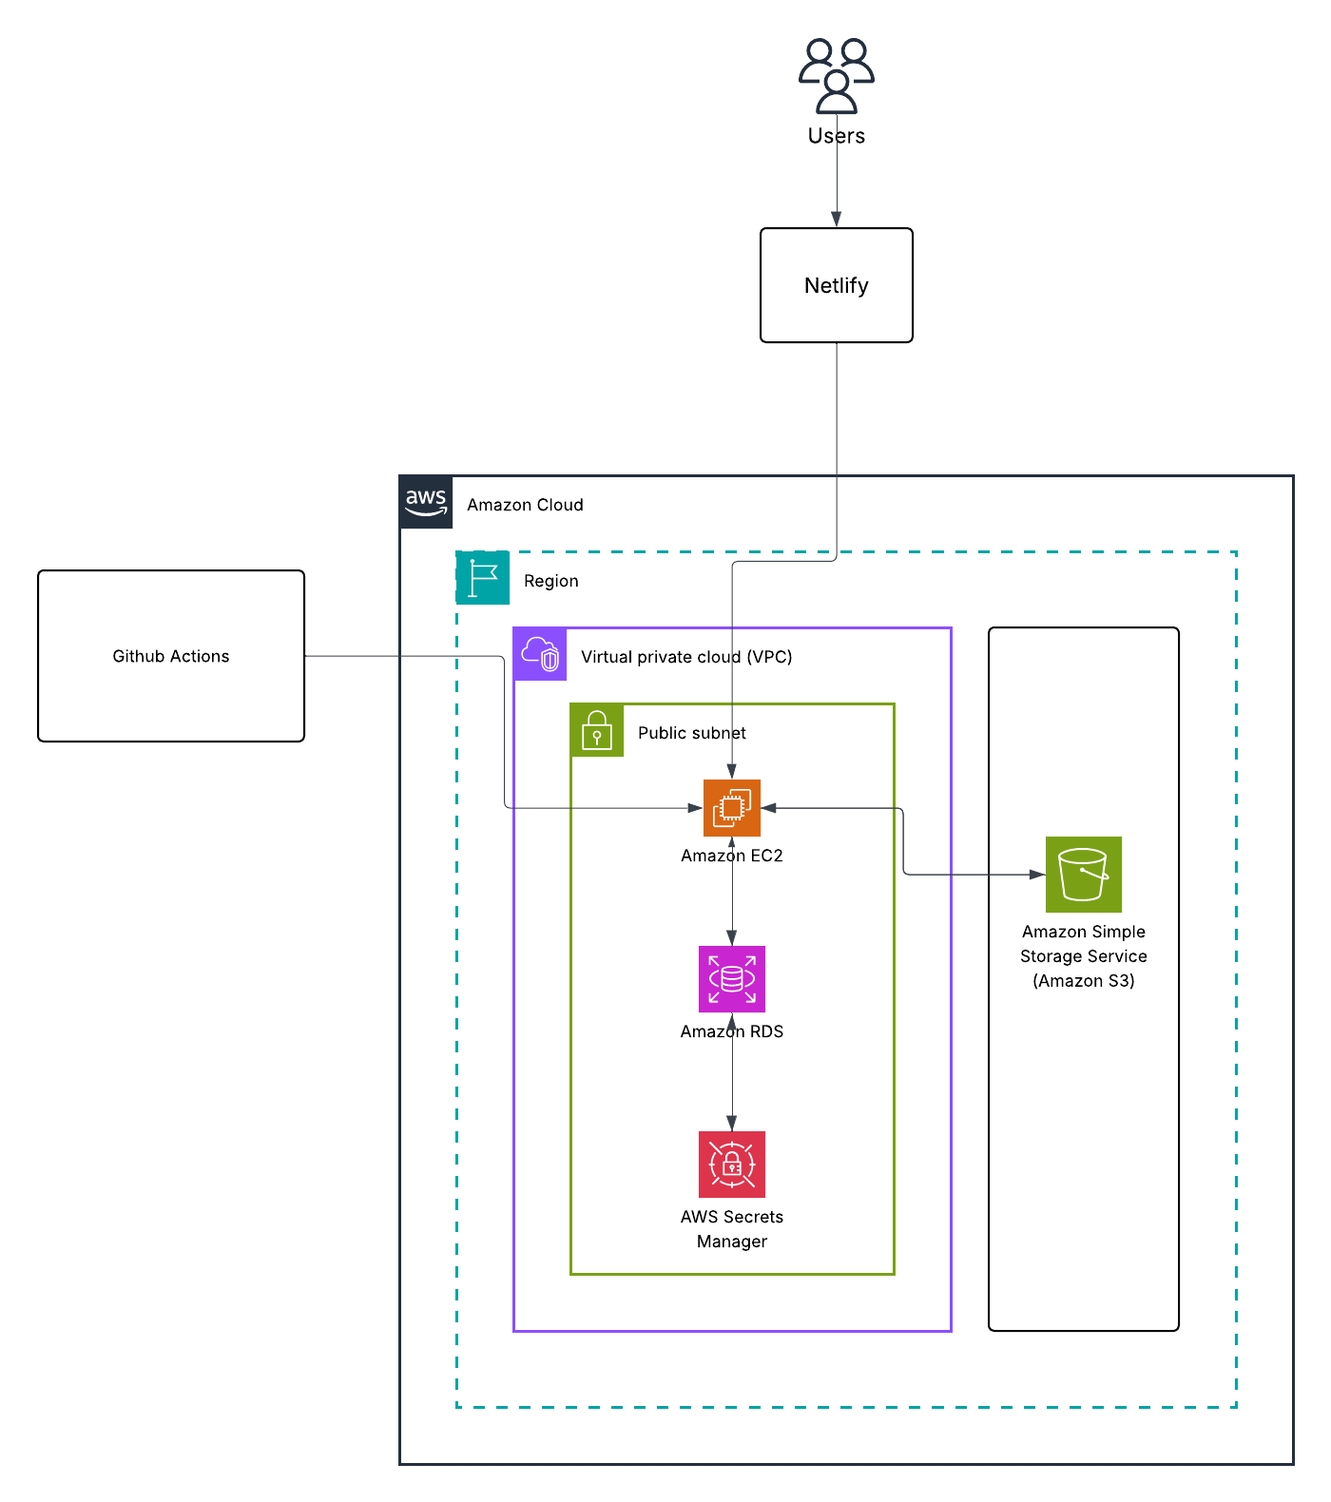
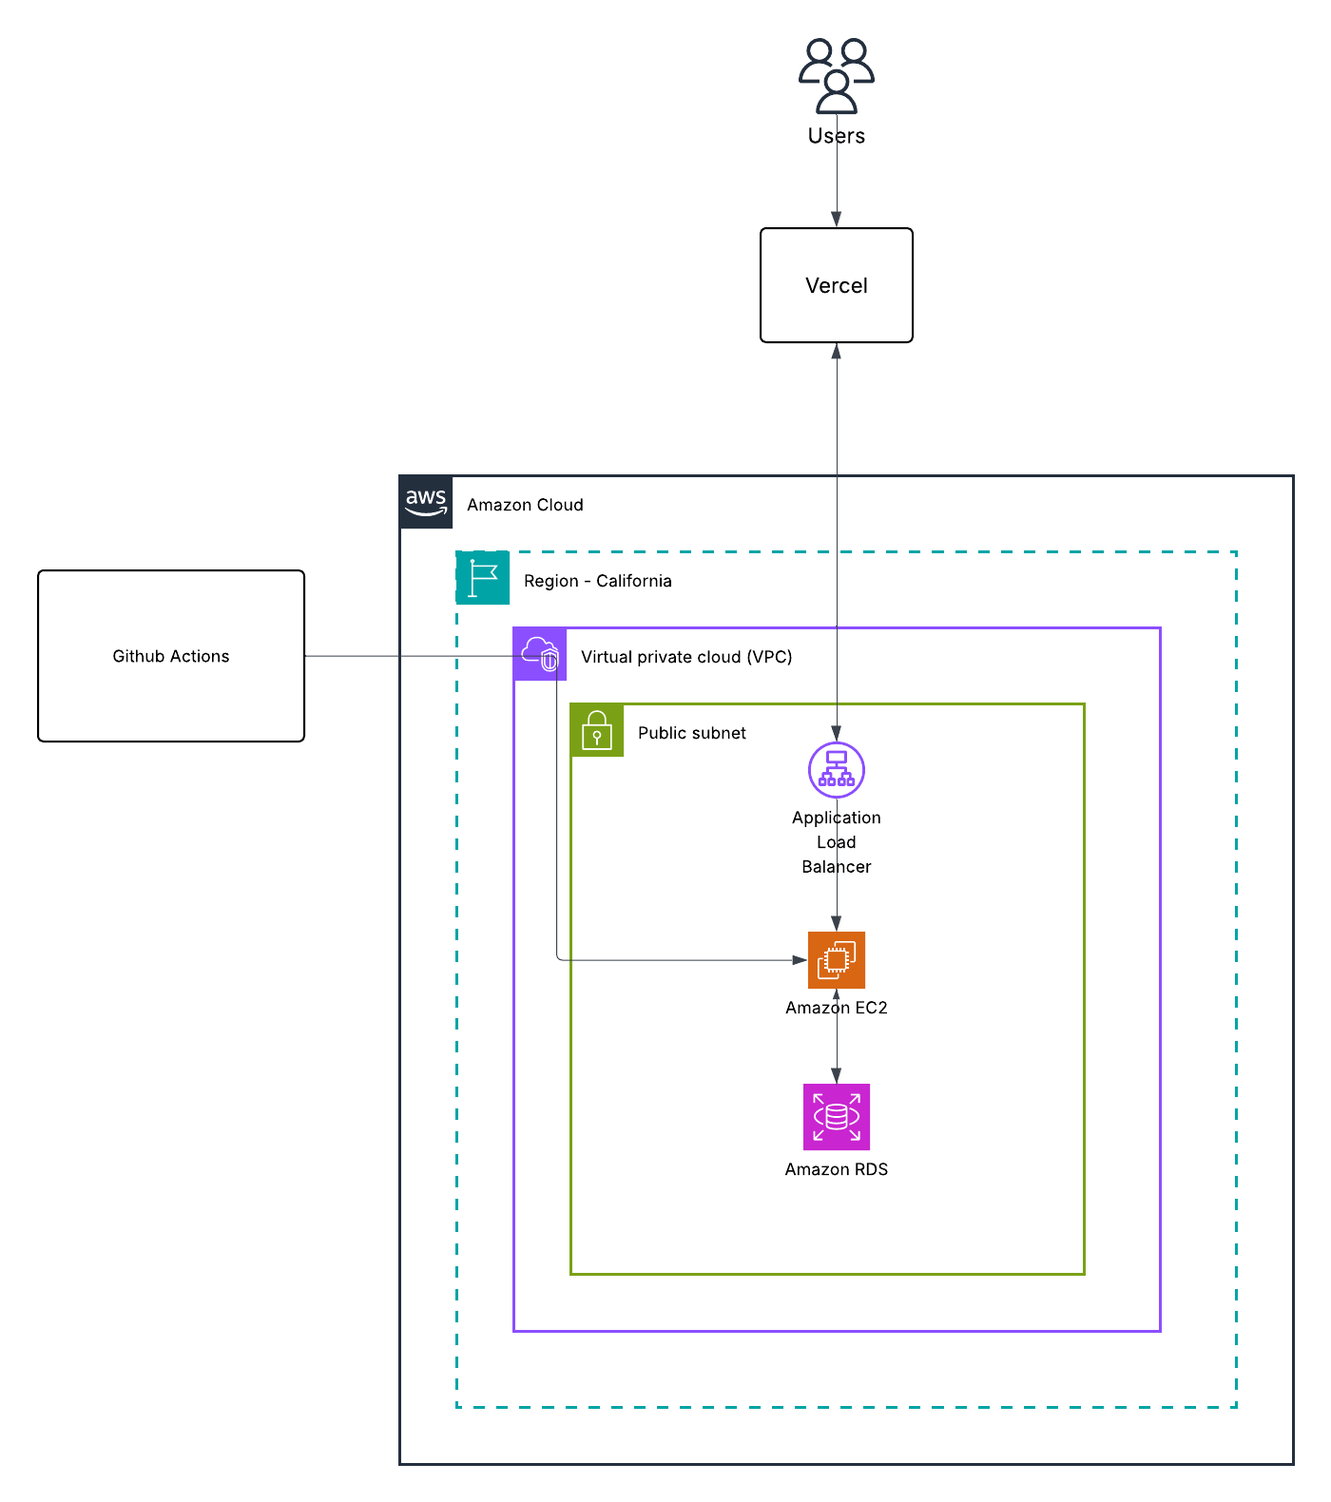
chore: update document

diff --git a/docs/functional_documentation.md b/docs/functional_documentation.md
@@ -14,8 +14,7 @@ The **Job Platform** aims to provide a **centralized digital solution** that sim
 
 - Enable **Job Seekers** to discover and apply for relevant jobs.
 - Allow **Employers** to manage job postings and applications easily.
-- Implement **role-based access control** with **JWT authentication**.
-- Integrate **AWS S3** for file uploads and storage.
+- Implement **role-based access control** with **authentication**.
 - Build a **secure and scalable** web-based job portal.
 - Ensure **user-friendly UI** using React and Tailwind CSS.
 
@@ -26,7 +25,6 @@ The **Job Platform** aims to provide a **centralized digital solution** that sim
 - Two major user roles — **Job Seeker** and **Employer**.
 - CRUD operations for users and job postings.
 - Secure authentication and data validation.
-- Integration with **AWS S3** for storing files.
 - Responsive PWA-enabled frontend.
 
 ---
@@ -36,11 +34,11 @@ The **Job Platform** aims to provide a **centralized digital solution** that sim
 | Feature | Description |
 |----------|-------------|
 | **Authentication** | Role-based registration and login using JWT. |
-| **Job Search & Filter** | Search by job skills. |
+| **Job Search** | Search by job by title and companies. |
 | **Job Applications** | Apply for jobs with resume uploads. |
 | **Profile Management** | Update user or employer details. |
-| **Job Management** | Employers can post, edit, or delete jobs. |
-| **File Uploads** | Resumes and other files are stored in S3. |
+| **Job Management** | Employers can post or delete jobs. |
+| **File Uploads** | Resumes can be uploaded of seekers. |
 | **Responsive UI** | Built with Tailwind CSS and PWA support. |
 | **Secure APIs** | Protected routes with role-based middleware. |
 
@@ -69,7 +67,6 @@ The **Job Platform** aims to provide a **centralized digital solution** that sim
 | **Backend** | Node.js, Express.js | Handling server-side logic, RESTful APIs, authentication, and role-based authorization. |
 | **Database** | PostgreSQL | SQL database for storing user data, job postings, and application details efficiently. |
 | **Authentication** | JWT (JSON Web Token), bcrypt | Secure login system with encrypted passwords and token-based access management. |
-| **Cloud Storage** | AWS S3 | Storing user resumes, profile images, and company logos safely and scalably. |
 | **Testing** | Jest, Postman | Unit and API testing to ensure reliability and prevent regressions. |
 | **Deployment & CI/CD** | GitHub Actions, AWS EC2 | Automating build, test, and deploy pipelines to ensure continuous integration and delivery. |
 | **Documentation** | MkDocs Material | Generating structured, visually consistent, and easy-to-navigate documentation. |
@@ -79,10 +76,9 @@ The **Job Platform** aims to provide a **centralized digital solution** that sim
 ## Expected Outcomes
 
 - A **fully functional** and **role-based** job portal system that demonstrates secure authentication, data management, and job application workflows.
-- Proper **integration with cloud storage** (AWS S3) for file uploads such as resumes and company logos.
 - Clean and **responsive frontend** designed using Tailwind CSS and React.
 - Reliable **backend APIs** for seamless communication between the client and server.
-- Scalable architecture deployable on **AWS, Render, or Vercel**.
+- Scalable architecture deployable on **AWS and Vercel**.
 - Comprehensive documentation that fulfills academic and professional evaluation criteria.
 
 ---
@@ -93,7 +89,7 @@ The **Job Platform** aims to provide a **centralized digital solution** that sim
 |------------|-------------|
 | **Security** | Implementation of JWT-based authentication, bcrypt password hashing, role-based route protection, and use of `.env` for sensitive credentials. |
 | **Performance** | Optimized SQL queries for job listings, and lazy loading in React components for better performance. |
-| **Scalability** | Modular Express structure and cloud-based file storage (S3). |
+| **Scalability** | Modular Express structure and cloud-based file storage. |
 | **Usability** | Intuitive navigation, simple forms, and consistent design patterns. |
 | **Reliability** | Error handling and status codes in APIs, connection monitoring, and fallback messages on frontend. |
 | **Maintainability** | Clear folder structure, modular controllers/services, and reusable components. |
@@ -108,9 +104,11 @@ The Job Platform is designed with extensibility in mind. Future enhancements can
 
 | Feature | Description |
 |----------|-------------|
-| **Admin Dashboard** | A centralized admin portal to manage users, employers, and posted jobs. |
+| **Admin Dashboard** | A centralized admin portal to manage everything. |
 | **Email / SMS Notifications** | Notify users on new jobs and applications. |
-| **AI-based Resume Recommendations** | Suggestions on resume based on the job description. |
+| **Cloud based file storage** | Store resumes on S3. |
+| **OTP based verification** | Verify every user with OTP. |
+
 
 ---
 

diff --git a/docs/technical_stack.md b/docs/technical_stack.md
@@ -1,6 +1,6 @@
 # Technical Stack
 
-This section describes the **technical foundation** of the **Job Platform** project — covering all technologies, tools, and services used across the frontend, backend, and deployment layers.  
+This section describes the **technical foundation** of the **Joblelo Platform** project — covering all technologies, tools, and services used across the frontend, backend, and deployment layers.  
 
 The stack has been carefully selected to ensure **scalability**, **security**, **maintainability**, and **performance** for a real-world, production-ready system.
 
@@ -12,9 +12,9 @@ The stack has been carefully selected to ensure **scalability**, **security**, *
 |------------|-------------|----------|
 | **Framework** | React.js | Builds a dynamic, single-page application with component-based UI. |
 | **Styling** | Tailwind CSS | Provides responsive, utility-first CSS design for consistency and speed. |
-| **Hosting Platform** | Netlify | Deployed for fast, global delivery with automatic builds from GitHub. |
-| **Routing & State** | React Router, Context API | Handles navigation and user authentication states. |
-| **API Communication** | Axios / Fetch API | Sends HTTP requests securely to backend endpoints. |
+| **Hosting Platform** | Vercel | Deployed for fast, global delivery with automatic builds. |
+| **Routing & State** | React Router | Handles navigation and user authentication states. |
+| **API Communication** | Axios | Sends HTTP requests securely to backend endpoints. |
 | **PWA Support (Optional)** | Service Worker | Enables offline capability and “Add to Home Screen” option. |
 
 ---
@@ -26,9 +26,8 @@ The stack has been carefully selected to ensure **scalability**, **security**, *
 | **Runtime Environment** | Node.js | Executes JavaScript code on the server side. |
 | **Framework** | Express.js | Provides REST API structure, middleware support, and routing. |
 | **Authentication** | JWT (JSON Web Token) | Manages secure login and role-based access control. |
-| **File Handling** | Multer | Handles multipart/form-data for file uploads to S3. |
+| **File Handling** | Multer | Handles multipart/form-data for file. |
 | **Hosting** | AWS EC2 | Runs backend application in a scalable cloud environment. |
-| **File Storage** | AWS S3 | Stores resumes, profile pictures, and job-related files securely. |
 
 ---
 
@@ -47,7 +46,6 @@ The stack has been carefully selected to ensure **scalability**, **security**, *
 |----------|----------|
 | **Amazon EC2** | Hosts the Node.js backend server in a managed Linux environment. |
 | **Amazon RDS (PostgreSQL)** | Stores relational data with reliability, scaling, and monitoring. |
-| **Amazon S3** | Handles storage for user-uploaded files (resumes, images). |
 
 ---
 
@@ -58,7 +56,7 @@ The stack has been carefully selected to ensure **scalability**, **security**, *
 | **Authentication Type** | JWT-based authentication using access and refresh tokens. |
 | **User Roles** | `Job Seeker`, `Employer`|
 | **Token Flow** | Tokens are generated at login and verified for protected routes. |
-| **Security Practices** | Passwords hashed using bcrypt; sensitive environment variables stored in Secrets Manager. |
+| **Security Practices** | Passwords hashed using bcrypt. |
 | **Access Control** | Role-based middleware ensures proper permission boundaries. |
 
 ---
@@ -78,8 +76,7 @@ The stack has been carefully selected to ensure **scalability**, **security**, *
 
 | Component | Technology | Purpose |
 |------------|-------------|----------|
-| **Frontend Deployment** | Netlify | Continuous deployment from main branch with build triggers. |
+| **Frontend Deployment** | Vercel | Continuous deployment from main branch with build triggers. |
 | **Backend Deployment** | AWS EC2 | Deployed Node.js server configured with PM2 for process management. |
 | **Database** | AWS RDS (PostgreSQL) | Managed cloud database service. |
-| **Storage** | AWS S3 | Persistent file storage. |
 | **CI/CD Pipeline** | GitHub Actions | Automates testing, build, and deployment on every push. |

diff --git a/docs/usecase_documentation.md b/docs/usecase_documentation.md
@@ -2,7 +2,7 @@
 
 ## 1. Use Case Overview
 
-The **Job Platform** consists of two main user roles — **Job Seeker** and **Employer** — each performing specific actions.  
+The **Joblelo Platform** consists of two main user roles **Job Seeker** and **Employer** each performing specific actions.  
 Below are detailed use cases describing interactions between the user and the system.
 
 ---
@@ -15,7 +15,6 @@ Below are detailed use cases describing interactions between the user and the sy
 | **Employer** | Company or recruiter posting jobs. |
 | **System (Backend)** | Node.js + Express API handling business logic. |
 | **Database** | storing users, jobs, and applications. |
-| **AWS S3** | File storage for resumes and others. |
 
 ---
 
@@ -25,7 +24,7 @@ Below are detailed use cases describing interactions between the user and the sy
 | Field | Description |
 |--------|-------------|
 | **Actors** | Job Seeker |
-| **Description** | Allows a job seeker to register with name, email, password. |
+| **Description** | Allows a job seeker to register with all required details. |
 | **Precondition** | User is not already registered. |
 | **Main Flow** | 1. Fill registration form → 2. Submit → 3. System validates → 4. Creates record in DB |
 | **Postcondition** | Account created successfully and JWT issued. |
@@ -36,10 +35,10 @@ Below are detailed use cases describing interactions between the user and the sy
 | Field | Description |
 |--------|-------------|
 | **Actors** | Employer |
-| **Description** | Employer registers by providing company name, email, password. |
+| **Description** | Employer registers by providing their details. |
 | **Precondition** | Employer not already registered. |
 | **Main Flow** | 1. Fill form → 2. Validate → 3. Save in DB with role=employer |
-| **Postcondition** | Employer can log in to post jobs. |
+| **Postcondition** | Account created successfully and JWT issued. |
 
 ---
 
@@ -47,9 +46,9 @@ Below are detailed use cases describing interactions between the user and the sy
 | Field | Description |
 |--------|-------------|
 | **Actors** | Job Seeker |
-| **Description** | Job seeker can browse or filter job listings. |
+| **Description** | Job seeker can browse job listings. |
 | **Precondition** | User logged in. |
-| **Main Flow** | 1. Enter search query → 2. API fetches filtered jobs → 3. Display list |
+| **Main Flow** | 1. Enter search query → 2. Jobs are filtered → 3. Display list |
 | **Postcondition** | Matching jobs displayed to user. |
 
 ---
@@ -58,9 +57,9 @@ Below are detailed use cases describing interactions between the user and the sy
 | Field | Description |
 |--------|-------------|
 | **Actors** | Job Seeker |
-| **Description** | Apply for a job by attaching resume (stored in S3). |
+| **Description** | Apply for a job. |
 | **Precondition** | User logged in and job exists. |
-| **Main Flow** | 1. Click Apply → 2. Upload Resume → 3. Application stored in DB |
+| **Main Flow** | 1. Click Apply → 2. User linked to application → 3. Application stored in DB |
 | **Postcondition** | Job application created successfully. |
 
 ---
@@ -91,7 +90,7 @@ Below are detailed use cases describing interactions between the user and the sy
 | Field | Description |
 |--------|-------------|
 | **Actors** | Job Seeker / Employer |
-| **Description** | Update profile info or upload a profile image (S3). |
+| **Description** | Update profile info. |
 | **Precondition** | User logged in. |
 | **Main Flow** | 1. Open Profile → 2. Edit info → 3. Save |
 | **Postcondition** | Profile updated successfully. |
@@ -107,8 +106,6 @@ Below are detailed use cases describing interactions between the user and the sy
 | **Main Flow** | 1. Click logout → 2. Token cleared |
 | **Postcondition** | Session ended. |
 
----
+<!-- ## 4. Use Case Diagram
 
-## 4. Use Case Diagram
-
-![aws](../assets/ucd.png)
+![aws](../assets/ucd.png) -->

diff --git a/docs/schema_design.md b/docs/schema_design.md
@@ -1,6 +1,6 @@
 # Schema Design
 
-This section illustrates the **database schema** used in the **Job Platform** project. The system uses **PostgreSQL** hosted on **AWS RDS**
+This section illustrates the **database schema** used in the **Joblelo Platform** project. The system uses **PostgreSQL** hosted on **AWS RDS**
 
 ---
 
@@ -27,9 +27,14 @@ Below are detailed descriptions of each table and their respective fields.
 | **email** | VARCHAR | User’s email address (must be unique). |
 | **phone** | VARCHAR | User’s contact number. |
 | **password** | VARCHAR | Hashed password using bcrypt. |
-| **is_verified** | BOOLEAN | Indicates if the user's email is verified. |
-| **address** | TEXT | Physical address of the user. |
-| **resume_url** | TEXT | AWS S3 URL of the uploaded resume. |
+| **work_email** | VARCHAR | Work email of recruiter. |
+| **city** | VARCHAR | City of user. |
+| **state** | VARCHAR | State of user. |
+| **country** | VARCHAR | Country of user. |
+| **resume_url** | TEXT | URL of the uploaded resume. |
+| **created_at** | TIMESTAMPTZ | Record creation timestamp. |
+| **updated_at** | TIMESTAMPTZ | Record update timestamp. |
+| **deleted_at** | TIMESTAMPTZ | Soft delete marker. |
 
 ---
 
@@ -38,7 +43,7 @@ Below are detailed descriptions of each table and their respective fields.
 | Field | Data Type | Description |
 |--------|------------|-------------|
 | **id** | SERIAL (PK) | Unique identifier for the role. |
-| **name** | VARCHAR | Role name — e.g., `Job Seeker`, `Employer`, `Admin`. |
+| **name** | VARCHAR | Role name — e.g., `Job Seeker`, `Employer`. |
 
 ---
 
@@ -90,7 +95,9 @@ Below are detailed descriptions of each table and their respective fields.
 | **title** | VARCHAR | Job title. |
 | **job_description** | TEXT | Detailed job description. |
 | **salary** | VARCHAR | Salary or compensation details. |
-| **location** | VARCHAR | Job location. |
+| **city** | VARCHAR | City of job. |
+| **state** | VARCHAR | State of job. |
+| **country** | VARCHAR | Country of job. |
 | **job_type** | ENUM | Type of job (e.g., Full-Time, Part-Time, Internship). |
 | **created_at** | TIMESTAMPTZ | Record creation timestamp. |
 | **updated_at** | TIMESTAMPTZ | Record update timestamp. |
@@ -105,7 +112,7 @@ Below are detailed descriptions of each table and their respective fields.
 | **id** | SERIAL (PK) | Unique identifier for each application. |
 | **job_id** | INT (FK) | References `JOBS.id`. |
 | **job_seeker_id** | INT (FK) | References `USERS.id`. |
-| **status** | ENUM | Application status (`Pending`, `Accepted`, `Rejected`). |
+| **status** | ENUM | Application status (`Applied`, `Accepted`, `Rejected`). |
 | **created_at** | TIMESTAMPTZ | Record creation timestamp. |
 | **updated_at** | TIMESTAMPTZ | Record update timestamp. |
 | **deleted_at** | TIMESTAMPTZ | Soft delete marker. |
@@ -122,5 +129,5 @@ To enhance query performance for common operations like login, job search, and a
 | **roles** | `name` | Speeds up role identification during authorization checks. | Quickly verify role type (Job Seeker, Employer, Admin). |
 | **user_roles** | (`user_id`, `role_id`) *(Composite)* | Optimizes role-based permission checks. | Retrieve roles assigned to a specific user. |
 | **companies** | `name` | Allows faster company searches and suggestions. | Find a company while posting or managing jobs. |
-| **jobs** | (`location`, `job_type`) *(Composite)* | Improves search and filtering performance for job listings. | Display jobs filtered by type or location. |
+| **jobs** | (`location`, `job_type`) *(Composite)* | Improves search and filtering performance for job listings. | Display jobs filtered by title or company. |
 | **applications** | (`job_id`, `job_seeker_id`) *(Composite)* | Prevents duplicate applications and speeds up lookups. | Check if a job seeker has already applied to a job. |

diff --git a/docs/cloud_architecture.md b/docs/cloud_architecture.md
@@ -1,8 +1,8 @@
 # Cloud Architecture
 
-The AWS architecture of the Job Platform demonstrates how the system is securely deployed and managed within the AWS cloud ecosystem.
+The AWS architecture of the Joblelo Platform demonstrates how the system is securely deployed and managed within the AWS cloud ecosystem.
 
-When a Job Seeker or Employer accesses the frontend hosted on **Netlify**, their requests are routed through the AWS infrastructure, which operates inside a **Virtual Private Cloud (VPC)** for isolation, scalability, and security.
+When a Job Seeker or Employer accesses the frontend hosted on **Vercel**, their requests are routed through the AWS infrastructure, which operates inside a **Virtual Private Cloud (VPC)** for isolation, scalability, and security.
 
 ---
 
@@ -14,7 +14,7 @@ When a Job Seeker or Employer accesses the frontend hosted on **Netlify**, their
 
 ## Architecture Description
 
-**Netlify (Frontend Hosting):**  
+**Vercel (Frontend Hosting):**  
 Hosts the React + Tailwind frontend, providing global CDN distribution, HTTPS, and automatic deployments.
 
 **Amazon EC2 (Elastic Compute Cloud):**  
@@ -23,14 +23,11 @@ Hosts the Node.js + Express backend application, handling API requests, business
 **Amazon RDS (Relational Database Service):**  
 Manages the PostgreSQL database that stores structured data such as user accounts, job listings, and applications.
 
-**Amazon S3 (Simple Storage Service):**  
-Used for storing static assets such as resumes, profile pictures, and company logos.
-
 **GitHub Actions (CI/CD):**  
-Automates build, test, and deployment pipelines for both frontend and backend. Updates are pushed directly to Netlify and EC2 environments.
+Automates build, test, and deployment pipelines for both frontend and backend. Updates are pushed directly to Vercel and EC2 environments.
 
 ---
 
 ## Summary
 
-This architecture ensures that the Job Platform runs in a secure, scalable, and automated environment. By combining **Netlify**, **AWS EC2**, **RDS**, **S3**, the system maintains strong performance, data integrity, and security while supporting continuous integration through **GitHub Actions**.
+This architecture ensures that the Job Platform runs in a secure, scalable, and automated environment. By combining **Vercel**, **AWS EC2**, **RDS**, the system maintains strong performance, data integrity, and security while supporting continuous integration through **GitHub Actions**.

diff --git a/docs/index.md b/docs/index.md
@@ -1,18 +1,18 @@
-# Job Platform Documentation
+# Joblelo Documentation
 
-Welcome to the **Job Platform Project Documentation** — a comprehensive guide to the design, development, and functionality of the Job Portal web application.
+Welcome to the **Joblelo Project Documentation** — a comprehensive guide to the design, development, and functionality of the Joblelo web application.
 
 ---
 
 ## Introduction
 
-The **Job Platform** is a full-stack web application designed to simplify the hiring and job-seeking process by bridging the gap between **job seekers** and **employers**.  
+The **Joblelo Platform** is a full-stack web application designed to simplify the hiring and job-seeking process by bridging the gap between **job seekers** and **employers**.  
 
 #### It enables:
 - Job seekers to find and apply for jobs easily.  
 - Employers to create, manage, and track job postings efficiently.  
 
-The platform ensures **data security, scalability, and accessibility** through a role-based authentication and authorization model, powered by **JWT (JSON Web Tokens)**.  It is built using **React.js**, **Node.js**, **Express.js**, and **PostgreSQL**, with **AWS S3** for secure file storage.  
+The platform ensures **data security, scalability, and accessibility** through a role-based authentication and authorization model, powered by **JWT (JSON Web Tokens)**.  It is built using **React.js**, **Node.js**, **Express.js**, and **PostgreSQL**, with **Sequelize** as ORM.  
 
 This project represents a real-world implementation of the above **Tech stack** with cloud integration and responsive design principles.
 
@@ -26,8 +26,8 @@ The system is divided into two main portals, each with specific responsibilities
 - Register and log in securely.  
 - Browse and search for job opportunities.  
 - Apply for jobs.  
-- Manage profile and update password.  
-- Track applications through the "My Applications" section.  
+- Manage profile.  
+- Track applications.  
 - Logout securely.
 
 ### Employer Portal

diff --git a/docs/auth_flow.md b/docs/auth_flow.md
@@ -14,7 +14,7 @@
 |------|--------------|
 | **Register** | User submits details → backend hashes password → saves to DB. |
 | **Login** | Backend validates credentials → fetches roles → issues JWT. |
-| **JWT Storage** | Frontend stores token (e.g. localStorage / cookie). |
+| **JWT Storage** | Frontend stores token. |
 | **Authorization** | Every protected API request includes JWT → backend verifies it → grants/denies access based on role. |
 
 ---
